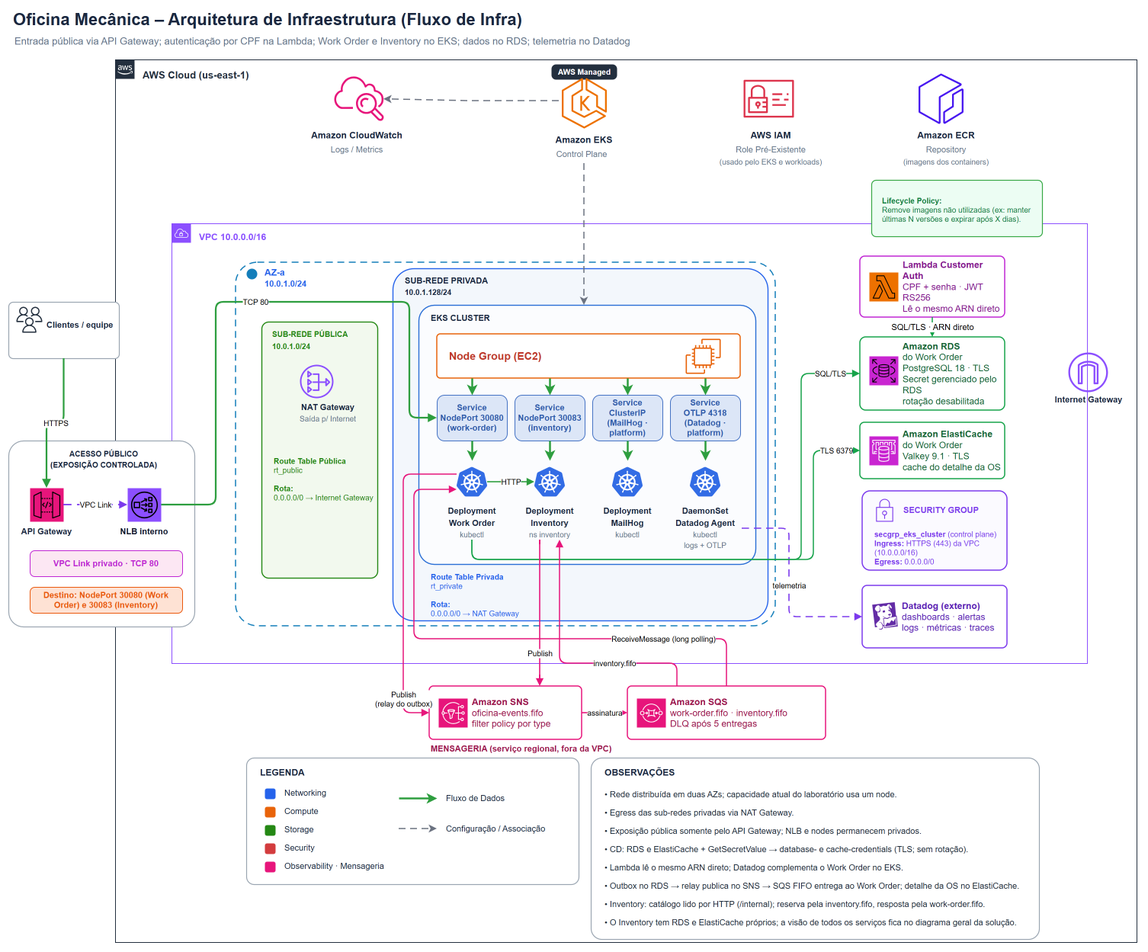
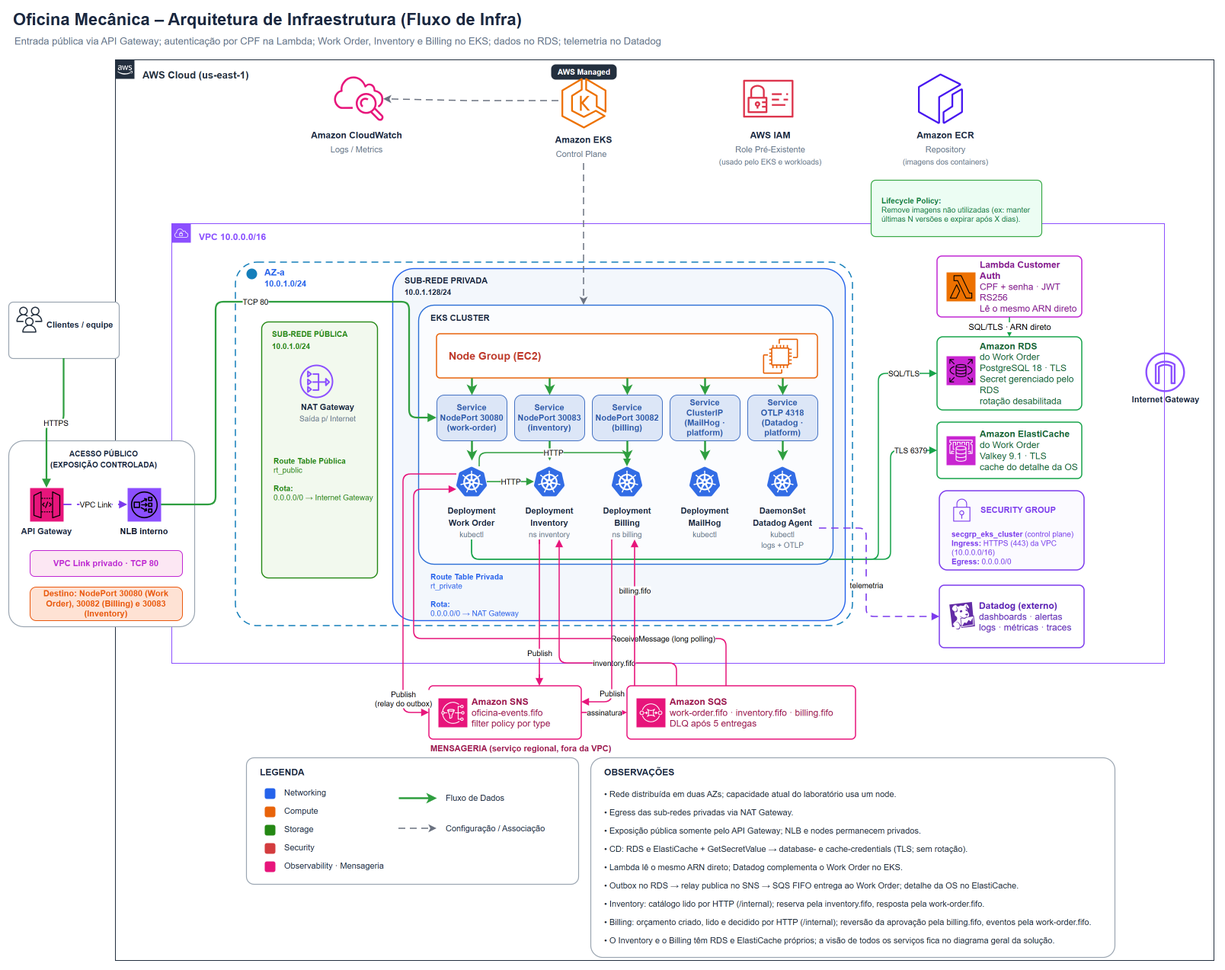
docs: redraw diagrams for billing quotes

diff --git a/docs/c4/README.md b/docs/c4/README.md
@@ -56,32 +56,33 @@ As caixas de pessoa descrevem **quem** cada ator é (não o que faz — a ação
 
 Um zoom para dentro da fronteira do sistema: os blocos executáveis/implantáveis e como se comunicam.
 
-<p align="center"><img src="images/c4-container.png" alt="Diagrama de Container C4: o API Gateway encaminha a autenticação externa à Lambda Customer Auth, as rotas de catálogo e estoque ao Inventory e o restante da API à API REST, no EKS; a API REST persiste no Amazon RDS, lê e invalida o detalhe da OS no ElastiCache, valida itens e lê o catálogo no Inventory, publica e consome mensagens no SNS e SQS FIFO, envia e-mails ao Servidor SMTP e emite telemetria ao Datadog Agent, que a encaminha ao Datadog; o Inventory consome os comandos de estoque e publica as respostas no SNS e SQS FIFO" width="100%"></p>
+<p align="center"><img src="images/c4-container.png" alt="Diagrama de Container C4: o API Gateway encaminha a autenticação externa à Lambda Customer Auth, as rotas de orçamento ao Billing, as de catálogo e estoque ao Inventory e o restante da API à API REST, no EKS; a API REST persiste no Amazon RDS, lê e invalida o detalhe da OS no ElastiCache, cria e lê orçamentos e repassa decisões no Billing, lê o catálogo no Inventory, publica e consome mensagens no SNS e SQS FIFO, envia e-mails ao Servidor SMTP e emite telemetria ao Datadog Agent, que a encaminha ao Datadog; o Billing e o Inventory publicam e consomem as mensagens deles no SNS e SQS FIFO" width="100%"></p>
 
-Dentro do **Sistema da Oficina Mecânica** estão os sete blocos implantáveis ou gerenciados que participam do fluxo atual: **API Gateway**, **API REST**, **Customer Auth**, **Banco de Dados**, **Cache**, **Mensageria** e **Coleta de Telemetria**. O **Inventory**, o **Servidor SMTP** e o **Datadog** são sistemas externos. O Inventory é outro serviço da solução, com banco e cache próprios, dono do catálogo de serviços e peças e do estoque; a API REST depende dele para validar itens e ler os dados de exibição deles, e para reservar o estoque na aprovação de orçamento. É neste nível que aparecem **tecnologia e protocolo** nas setas, como recomendado. O relay do outbox e o consumidor da fila rodam dentro do processo da API, sem worker separado; o Job de migração do Kubernetes reutiliza a mesma imagem da API e por isso não é modelado como container à parte.
+Dentro do **Sistema da Oficina Mecânica** estão os sete blocos implantáveis ou gerenciados que participam do fluxo atual: **API Gateway**, **API REST**, **Customer Auth**, **Banco de Dados**, **Cache**, **Mensageria** e **Coleta de Telemetria**. O **Billing**, o **Inventory**, o **Servidor SMTP** e o **Datadog** são sistemas externos. O Billing e o Inventory são outros serviços da solução, cada um com banco e cache próprios. O Billing é dono dos orçamentos e dos pagamentos: a API REST cria nele o orçamento inicial ao abrir uma OS, lê os orçamentos, repassa a decisão do Cliente da Oficina e reage às mensagens que ele publica quando um orçamento muda de status. O Inventory é dono do catálogo de serviços e peças e do estoque: a API REST lê nele os dados de exibição dos itens e reserva o estoque na aprovação de orçamento. É neste nível que aparecem **tecnologia e protocolo** nas setas, como recomendado. O relay do outbox e o consumidor da fila rodam dentro do processo da API, sem worker separado; o Job de migração do Kubernetes reutiliza a mesma imagem da API e por isso não é modelado como container à parte.
 
 | Container | Tecnologia | Responsabilidade |
 |---|---|---|
-| **API Gateway** | AWS HTTP API | Entrada pública; encaminha `/customer-auth/login` à Lambda, `/api/services` (exceto as métricas, `/api/services/{id}/metrics`, que ficam na API REST), `/api/parts-supplies`, `/api/stock-movements` e `/api/stock-reservations` ao Inventory e o restante de `/api/{proxy+}` à API REST, pelo VPC Link e pelo NLB interno |
+| **API Gateway** | AWS HTTP API | Entrada pública; encaminha `/customer-auth/login` à Lambda, `/api/services` (exceto as métricas, `/api/services/{id}/metrics`, que ficam na API REST), `/api/parts-supplies`, `/api/stock-movements` e `/api/stock-reservations` ao Inventory, `/api/quotes` e `/api/work-orders/{id}/quotes` ao Billing e o restante de `/api/{proxy+}` à API REST, pelo VPC Link e pelo NLB interno |
 | **API REST** | NestJS 12 · Node.js 24 · TypeScript no EKS | Expõe `/api`, concentra a lógica de negócio em Clean Architecture e envia notificações |
 | **Customer Auth** | AWS Lambda · Node.js 24 | Valida CPF, senha e status e emite `customer-jwt` RS256 |
-| **Banco de Dados** | PostgreSQL 18 (Amazon RDS) | Armazena as entidades de negócio da API (clientes, veículos, ordens de serviço, orçamentos, usuários), o estado das Sagas e o outbox das mensagens; serviço **gerenciado, fora do cluster**, alcançado pela rede a partir das subnets privadas |
+| **Banco de Dados** | PostgreSQL 18 (Amazon RDS) | Armazena as entidades de negócio da API (clientes, veículos, ordens de serviço, usuários), o estado das Sagas e o outbox das mensagens; serviço **gerenciado, fora do cluster**, alcançado pela rede a partir das subnets privadas |
 | **Cache** | Valkey 9.1 (Amazon ElastiCache) | Guarda o detalhe das ordens de serviço (cache-aside, TTL de 12 h); serviço gerenciado, fora do cluster, com TLS e senha |
-| **Mensageria** | Amazon SNS + SQS FIFO | Tópico `oficina-events.fifo` e filas `work-order.fifo` e `inventory.fifo`, cada uma com a sua DLQ (fila de mensagens que falharam), para as mensagens entre os serviços da oficina |
+| **Mensageria** | Amazon SNS + SQS FIFO | Tópico `oficina-events.fifo` e filas `work-order.fifo`, `inventory.fifo` e `billing.fifo`, cada uma com a sua DLQ (fila de mensagens que falharam), para as mensagens entre os serviços da oficina |
 | **Coleta de Telemetria** | Datadog Agent no EKS | Coleta `stdout`, kubelet e OTLP da API e envia a telemetria ao Datadog |
+| **Billing** | Serviço externo · NestJS 12 no EKS | Dono dos orçamentos e dos pagamentos; atende a API REST pelas rotas `/internal/quotes`, recebe pela fila `billing.fifo` o pedido de desfazer uma aprovação e publica os eventos de orçamento que a API REST consome |
 | **Inventory** | Serviço externo · NestJS 12 no EKS | Dono do catálogo de serviços e peças e do estoque, com a reserva por OS; atende a API REST pelas rotas `/internal` e os comandos de estoque pela fila `inventory.fifo` |
 | **Servidor SMTP** | MailHog (externo) | Recebe e entrega os e-mails de orçamento (sink SMTP de desenvolvimento) |
 | **Datadog** | Serviço externo | Apresenta dashboards, alertas, logs, métricas e traces |
 
-Os protocolos nas setas: os atores entram por **HTTPS** no API Gateway; a autenticação de cliente usa integração **AWS_PROXY** com a Lambda; a API segue por **VPC Link → NLB interno → NodePort**; API e Lambda acessam o RDS por **SQL/TLS**; a API acessa o ElastiCache por **RESP sobre TLS**, o Inventory por **HTTP/JSON** nas rotas `/internal` e o SNS e o SQS por **HTTPS** (AWS SDK), como o Inventory; a API notifica por **SMTP** e emite telemetria por `stdout` e **OTLP**. A estratégia Passport externa (`customer-jwt`, RS256) permanece separada da usada pelos funcionários (`jwt`, RS256 com outra chave, emissor e audiência).
+Os protocolos nas setas: os atores entram por **HTTPS** no API Gateway; a autenticação de cliente usa integração **AWS_PROXY** com a Lambda; a API segue por **VPC Link → NLB interno → NodePort**; API e Lambda acessam o RDS por **SQL/TLS**; a API acessa o ElastiCache por **RESP sobre TLS**, o Billing e o Inventory por **HTTP/JSON** nas rotas `/internal` e o SNS e o SQS por **HTTPS** (AWS SDK), como o Billing e o Inventory; a API notifica por **SMTP** e emite telemetria por `stdout` e **OTLP**. A estratégia Passport externa (`customer-jwt`, RS256) permanece separada da usada pelos funcionários (`jwt`, RS256 com outra chave, emissor e audiência).
 
 ## Nível 3 — Componente da API REST
 
 O zoom mais interno: as peças que compõem o container **API REST**.
 
-<p align="center"><img src="images/c4-component.png" alt="Diagrama de Componente C4 da API REST: nove módulos de negócio (Minha Conta, Auth, Usuários, Clientes, Veículos, Serviços, Ordens de Serviço, Orçamentos e Rotas Internas) e cinco componentes transversais (Guards/Segurança, Repositories, Cache, Mensageria e Gateways); Ordens de Serviço e Orçamentos se relacionam nos dois sentidos, invalidam o Cache e validam itens e leem os dados de exibição pelos Gateways, que chamam as rotas /internal do Inventory; Serviços lê o catálogo pelos Gateways; a Mensageria entrega aos Orçamentos as respostas da reserva de estoque; os Orçamentos enviam e-mail pelo Servidor SMTP; o Cliente da Oficina passa por Guards/Segurança até Minha Conta; o Billing lê a OS e o Inventory consulta o uso de item em orçamento pelas Rotas Internas; Repositories, Cache e Mensageria usam o PostgreSQL, o ElastiCache e o SNS/SQS FIFO" width="100%"></p>
+<p align="center"><img src="images/c4-component.png" alt="Diagrama de Componente C4 da API REST: nove módulos de negócio (Minha Conta, Auth, Usuários, Clientes, Veículos, Serviços, Ordens de Serviço, Orçamentos e Rotas Internas) e cinco componentes transversais (Guards/Segurança, Repositories, Cache, Mensageria e Gateways); Ordens de Serviço cria e apaga o orçamento inicial pelos Gateways; a Mensageria entrega aos Orçamentos as mensagens do Billing e as respostas da reserva de estoque, e os Orçamentos movem a OS, leem o orçamento aprovado pelos Gateways, invalidam o Cache e enviam e-mail pelo Servidor SMTP; Minha Conta lê e decide orçamentos pelos Gateways; os Gateways chamam as rotas /internal do Billing e do Inventory; Serviços lê o catálogo pelos Gateways; o Cliente da Oficina passa por Guards/Segurança até Minha Conta; o Billing lê a OS pelas Rotas Internas; Repositories, Cache e Mensageria usam o PostgreSQL, o ElastiCache e o SNS/SQS FIFO" width="100%"></p>
 
-São **nove módulos de negócio** e **cinco componentes transversais**, com as dependências reais entre módulos levantadas no código. Destaques do fluxo: **Ordens de Serviço ↔ Orçamentos** se relacionam nos dois sentidos (a OS cria e lista orçamentos; o orçamento lê e atualiza o status da OS); os dois validam os itens e leem os dados de exibição deles no **Inventory**, o serviço dono do catálogo e do estoque, pelos **Gateways**; a aprovação de um orçamento com peças é a Saga de aprovação, em que o comando de reserva sai pelo outbox e a **Mensageria** entrega aos **Orçamentos** as respostas do Inventory (ver [Arquitetura](../architecture.md#aprovação-de-orçamento-com-reserva-de-estoque)); os **Orçamentos** disparam e-mail pelo **Servidor SMTP**; o **Cliente da Oficina** apresenta o `customer-jwt` ao componente **Guards / Segurança**, que o vincula ao módulo **Minha Conta**; o **Billing** lê a OS e o **Inventory** consulta o uso de item em orçamento pelas **Rotas Internas**; e **Ordens de Serviço** e **Orçamentos** leem e invalidam o detalhe da OS no **Cache**.
+São **nove módulos de negócio** e **cinco componentes transversais**, com as dependências reais entre módulos levantadas no código. Destaques do fluxo: **Ordens de Serviço** abre a OS com o orçamento inicial criado no **Billing**, o serviço dono dos orçamentos, pelos **Gateways**, e o apaga se a gravação da OS falha (a Saga de abertura, ver [Arquitetura](../architecture.md#saga-de-abertura)); **Orçamentos** não tem rota HTTP: a **Mensageria** entrega a ele as mensagens do Billing (orçamento enviado, rejeitado, aprovado e aprovação desfeita) e as respostas da reserva de estoque do **Inventory**, e ele move a OS, conduz a Saga de aprovação (ver [Arquitetura](../architecture.md#aprovação-de-orçamento-com-reserva-de-estoque)), lê o orçamento aprovado pelos **Gateways** e dispara e-mail pelo **Servidor SMTP**; o **Cliente da Oficina** apresenta o `customer-jwt` ao componente **Guards / Segurança**, que o vincula ao módulo **Minha Conta**, que lê e decide os orçamentos no Billing pelos **Gateways**; o **Billing** lê a OS pelas **Rotas Internas**; e **Ordens de Serviço** e **Orçamentos** leem e invalidam o detalhe da OS no **Cache**.
 
 As dependências de quase todos os módulos em relação a **Guards / Segurança** e **Repositories**, e as de **Clientes** e **Veículos** em relação ao **Cache**, estão descritas no texto desses componentes, e **não desenhadas como setas** — isso evita cerca de 18 setas repetidas que poluiriam o diagrama sem agregar informação. Como no exemplo oficial (Figura 3 do material da aula), as setas entre componentes do mesmo container não levam rótulo de tecnologia; a tecnologia aparece somente nas relações que cruzam a fronteira da API, como cliente, Banco de Dados, Cache Distribuído, Mensageria AWS, Servidor SMTP, Billing e Inventory.
 
@@ -94,10 +95,10 @@ As dependências de quase todos os módulos em relação a **Guards / Segurança
 | **Clientes** | NestJS Module | CRUD de clientes (pessoa física/jurídica) |
 | **Veículos** | NestJS Module | CRUD de veículos e listagem de veículos por cliente |
 | **Serviços** | NestJS Module | Métricas por serviço sobre os itens executados (`GET /services/:id/metrics`); o catálogo de serviços é do Inventory |
-| **Ordens de Serviço** | NestJS Module | Criação e gestão de ordens de serviço, status, histórico e execução dos itens; ao iniciar a execução de uma OS com peças, pede ao Inventory a baixa da reserva |
-| **Orçamentos** | NestJS Module | Itens de orçamento, submissão e notificação por e-mail (decisão via Minha Conta) e a Saga de aprovação com reserva de estoque no Inventory |
-| **Minha Conta** | NestJS Module | Rotas autenticadas do usuário externo: identidade, senha, ordens e orçamentos vinculados, decisão de orçamento |
-| **Rotas Internas** | NestJS Module | Rotas `/internal` para os outros serviços, sem token e fora do prefixo `/api`; delegam ao Clean Controller existente (`GET /internal/work-orders/:id`, lido pelo Billing, e o uso de serviço ou peça em orçamento, consultado pelo Inventory) |
+| **Ordens de Serviço** | NestJS Module | Abertura com o orçamento inicial no Billing (Saga de abertura), gestão de ordens de serviço, status, histórico e execução dos itens; ao iniciar a execução de uma OS com peças, pede ao Inventory a baixa da reserva |
+| **Orçamentos** | NestJS Module | Handlers das mensagens de orçamento, sem rota HTTP: o envio leva a OS a aguardar aprovação e avisa o cliente por e-mail, a rejeição devolve a OS, e a aprovação roda a Saga de aprovação com reserva de estoque no Inventory, desfeita no Billing quando falta estoque |
+| **Minha Conta** | NestJS Module | Rotas autenticadas do usuário externo: identidade, senha, ordens vinculadas e os orçamentos delas, lidos e decididos no Billing |
+| **Rotas Internas** | NestJS Module | Rotas `/internal` para os outros serviços, sem token e fora do prefixo `/api`; delegam ao Clean Controller existente (`GET /internal/work-orders/:id`, lido pelo Billing) |
 
 **Componentes transversais**
 
@@ -106,8 +107,8 @@ As dependências de quase todos os módulos em relação a **Guards / Segurança
 | **Guards / Segurança** | NestJS Guards | `AuthenticationGuard` global que nega por padrão (token de funcionário, salvo `@Public()` ou `@CustomerArea()`), `RolesGuard` (RBAC interno) e as estratégias separadas `jwt` (RS256, funcionário) e `customer-jwt` (RS256) |
 | **Repositories** | Prisma | Acesso a dados centralizado e global; todos os módulos de negócio persistem através dele, com o outbox gravado no mesmo Unit of Work |
 | **Cache** | NestJS Module · ioredis | Cache-aside do detalhe da OS no Valkey; invalidado depois do commit pelas escritas em OS, orçamentos, clientes e veículos |
-| **Mensageria** | NestJS Module · AWS SDK | Relay do outbox para o SNS FIFO e consumidor da fila SQS `work-order.fifo`, com o span `CONSUMER` e os handlers das respostas da reserva de estoque (`inventory.stock.reserved` e `inventory.stock.reservation_failed`) |
-| **Gateways** | @nestjs/axios | `HttpInventoryCatalogGateway` sobre o `InternalHttpClient`: lê serviços e peças nas rotas `/internal` do Inventory, com prazo de 2 s, `x-request-id` e `traceparent` |
+| **Mensageria** | NestJS Module · AWS SDK | Relay do outbox para o SNS FIFO e consumidor da fila SQS `work-order.fifo`, com o span `CONSUMER` e os handlers das mensagens do Billing (`billing.quote.sent`, `billing.quote.rejected`, `billing.quote.approved` e `billing.quote.approval_reverted`) e das respostas da reserva de estoque (`inventory.stock.reserved` e `inventory.stock.reservation_failed`) |
+| **Gateways** | @nestjs/axios | `HttpBillingQuotesGateway` e `HttpInventoryCatalogGateway` sobre o `InternalHttpClient`: criam, leem, apagam e decidem orçamentos nas rotas `/internal` do Billing e leem serviços e peças nas do Inventory, com prazo de 2 s (5 s nas chamadas que o Billing só responde depois de ler o Inventory), `x-request-id` e `traceparent` |
 
 ## Documentação relacionada
 

diff --git a/docs/sequence-diagrams.md b/docs/sequence-diagrams.md
@@ -2,7 +2,7 @@
 
 Quatro fluxos centrais da aplicação, em notação UML: login interno, abertura de Ordem de Serviço, autenticação externa do Cliente da Oficina por CPF e aprovação de orçamento com reserva de estoque. Gerados via draw.io a partir de Mermaid, com XML editável embutido nos PNGs.
 
-Nos três primeiros, existe uma camada de **Controller** duas vezes: o `Controller` do NestJS (em `infrastructure/http/controllers/`, borda HTTP — decorators de rota, DTOs, Swagger) delega para o `Controller` da Clean Architecture (em `interface-adapters/`, sem nenhuma dependência de framework), que por sua vez chama o caso de uso. Ver [ADR 0009](adr/0009-clean-architecture-ddd-em-camadas.md). No da aprovação de orçamento, as duas camadas aparecem num participante só, para dar espaço às mensagens trocadas com o Billing e o Inventory.
+Nos três primeiros, existe uma camada de **Controller** duas vezes: o `Controller` do NestJS (em `infrastructure/http/controllers/`, borda HTTP — decorators de rota, DTOs, Swagger) delega para o `Controller` da Clean Architecture (em `interface-adapters/`, sem nenhuma dependência de framework), que por sua vez chama o caso de uso. Ver [ADR 0009](adr/0009-clean-architecture-ddd-em-camadas.md). No da aprovação de orçamento, a área do cliente (**Minha Conta**) aparece num participante só, para dar espaço às mensagens trocadas com o Billing e o Inventory.
 
 ## Login interno
 
@@ -12,9 +12,9 @@ Nos três primeiros, existe uma camada de **Controller** duas vezes: o `Controll
 
 ## Abertura de Ordem de Serviço
 
-<p align="center"><img src="diagrams/work-order-creation-sequence.png" alt="Diagrama de sequência UML da abertura de uma Ordem de Serviço (POST /api/work-orders): WorkOrderController (NestJS), JwtAuthGuard, JwtStrategy, RolesGuard, WorkOrderController (Clean Architecture) a validação dos itens no Inventory pelo QuoteItemValidator e pelo IInventoryCatalogGateway, antes da transação (id desconhecido responde 404, Inventory fora do ar responde 503), e a transação do CreateWorkOrderUseCase — validação de cliente, veículo e mecânico atribuído, geração do número sequencial, criação da OS, histórico de status e orçamento inicial opcional" width="100%"></p>
+<p align="center"><img src="diagrams/work-order-creation-sequence.png" alt="Diagrama de sequência UML da abertura de uma Ordem de Serviço (POST /api/work-orders): WorkOrderController (NestJS), AuthenticationGuard com o JwtAuthGuard, JwtStrategy e RolesGuard autenticam o funcionário; o WorkOrderController (Clean Architecture) chama o CreateWorkOrderUseCase, que valida cliente, veículo e mecânico atribuído (404 ou 409); com itens no pedido, cria antes o orçamento inicial no Billing pelo IBillingQuotesGateway (POST /internal/quotes, prazo de 5 s; a recusa do Billing volta com o mesmo status, Billing ou Inventory fora do ar responde 503, sem nada gravado); depois grava numa transação o número sequencial, a OS e o histórico RECEIVED; se a transação falha, apaga o orçamento no Billing (DELETE /internal/quotes/:id, compensação da Saga de abertura) e devolve o erro; no sucesso responde 201" width="100%"></p>
 
-`POST /api/work-orders`, a partir do `accessToken` obtido no login — passa por `JwtAuthGuard`/`JwtStrategy` (incluindo a checagem de `passwordChangedAt`) e `RolesGuard` e chega ao `CreateWorkOrderUseCase`, que conduz a **Saga de abertura**: valida cliente, veículo e mecânico (404/409/422), cria o orçamento inicial no Billing, o serviço dono dos orçamentos, quando há itens (`POST /internal/quotes`, antes da transação: a recusa do Billing volta como está, Billing ou Inventory fora do ar → 503), e grava a OS e o histórico numa transação. Se a transação falha, o orçamento é apagado no Billing (`DELETE /internal/quotes/:id`) e o erro volta ao chamador. Regras completas em [Saga de abertura](architecture.md#saga-de-abertura).
+`POST /api/work-orders`, a partir do `accessToken` obtido no login — passa pelo `AuthenticationGuard`, o guard global que delega ao `JwtAuthGuard`/`JwtStrategy` (incluindo a checagem de `passwordChangedAt`), e pelo `RolesGuard` e chega ao `CreateWorkOrderUseCase`, que conduz a **Saga de abertura**: valida cliente, veículo e mecânico (404/409/422), cria o orçamento inicial no Billing, o serviço dono dos orçamentos, quando há itens (`POST /internal/quotes`, antes da transação: a recusa do Billing volta como está, Billing ou Inventory fora do ar → 503), e grava a OS e o histórico numa transação. Se a transação falha, o orçamento é apagado no Billing (`DELETE /internal/quotes/:id`) e o erro volta ao chamador. Regras completas em [Saga de abertura](architecture.md#saga-de-abertura).
 
 ## Autenticação externa do Cliente da Oficina (CPF)
 
@@ -26,7 +26,7 @@ Ver [Identidade externa, autenticação e autorização por vínculo](architectu
 
 ## Aprovação de orçamento com reserva de estoque
 
-<p align="center"><img src="diagrams/quote-approval-saga-sequence.png" alt="Diagrama de sequência UML da aprovação de orçamento com reserva de estoque: o usuário aprova o orçamento; o ApproveQuoteUseCase grava numa transação a OS, o orçamento aprovado, os outros orçamentos rejeitados e a Saga, e, quando o orçamento tem peças, o comando inventory.stock.reserve no outbox; o OutboxRelayService publica o comando no SNS, que o entrega ao Inventory pela fila inventory.fifo; a resposta inventory.stock.reserved chega pela fila work-order.fifo ao CompleteQuoteApprovalUseCase, que leva a OS a APPROVED e conclui a Saga; a resposta inventory.stock.reservation_failed chega ao CompensateQuoteApprovalUseCase, que desfaz a aprovação, compensa a Saga e envia um e-mail ao cliente" width="100%"></p>
+<p align="center"><img src="diagrams/quote-approval-saga-sequence.png" alt="Diagrama de sequência UML da aprovação de orçamento com reserva de estoque: o funcionário aprova no Billing ou o Cliente da Oficina decide pela Minha Conta, que repassa a decisão ao Billing; o Billing grava o orçamento aprovado, responde 200 e publica billing.quote.approved, que chega pela fila work-order.fifo ao StartQuoteApprovalUseCase; ele ignora a mensagem repetida, pede a reversão ao Billing (billing.quote.revert_approval com revertTo REJECTED) se a OS saiu de AWAITING_APPROVAL, aprova a OS direto quando não há peças ou grava a Saga RESERVING_STOCK e o comando inventory.stock.reserve no outbox; o OutboxRelayService publica o comando, que o Inventory recebe pela fila inventory.fifo; com estoque, inventory.stock.reserved chega ao CompleteQuoteApprovalUseCase, que lê o orçamento aprovado no Billing, leva a OS a APPROVED e conclui a Saga; sem estoque, inventory.stock.reservation_failed chega ao CompensateQuoteApprovalUseCase, que deixa a Saga COMPENSATING e pede ao Billing, pela fila billing.fifo, a volta do orçamento a SENT; o Billing publica billing.quote.approval_reverted e o ConfirmQuoteApprovalReversalUseCase deixa a Saga COMPENSATED, grava a nota no histórico e envia o e-mail de estoque insuficiente ao cliente" width="100%"></p>
 
 O funcionário aprova o orçamento no Billing (`PATCH /api/quotes/:id`) ou o Cliente da Oficina decide em `POST /api/me/quotes/:id/decisions`, que este serviço confere e repassa ao Billing. A aprovação é uma **Saga**: uma sequência de transações locais, cada uma num serviço, ligada por mensagens, em que a falha de um passo dispara uma **compensação** que desfaz o que os passos anteriores gravaram. O work-order conduz a Saga e guarda o estado dela na tabela `saga_instances`.
 

diff --git a/docs/infra/overview.md b/docs/infra/overview.md
@@ -20,9 +20,9 @@ A solução roda inteiramente na região **`us-east-1`**, dentro de uma única V
 
 A primeira vista preserva o fluxo arquitetural resumido; a segunda detalha rede, ownership e workloads sem alterar a separação entre os recursos gerenciados e o cluster.
 
-![Arquitetura de infraestrutura: API Gateway e Lambda na entrada pública, Work Order, Inventory (o serviço dono do catálogo e do estoque, chamado pelo Work Order por HTTP) e Datadog Agent no EKS, o Amazon RDS e o Amazon ElastiCache do Work Order fora do cluster, Amazon SNS e as filas SQS FIFO work-order.fifo e inventory.fifo para a mensageria dos dois serviços e Datadog como destino da telemetria](../diagrams/infrastructure-diagram.png)
+![Arquitetura de infraestrutura: API Gateway e Lambda na entrada pública, Work Order, Inventory (o serviço dono do catálogo e do estoque) e Billing (o serviço dono dos orçamentos e dos pagamentos), os dois chamados pelo Work Order por HTTP, e o Datadog Agent no EKS, o Amazon RDS e o Amazon ElastiCache do Work Order fora do cluster, Amazon SNS e as filas SQS FIFO work-order.fifo, inventory.fifo e billing.fifo para a mensageria dos três serviços e Datadog como destino da telemetria](../diagrams/infrastructure-diagram.png)
 
-![Arquitetura de referência detalhada: fluxo API Gateway, VPC Link, NLB interno e NodePort; subnets públicas e privadas; cluster EKS com o Work Order e o Inventory, Lambda, RDS, ElastiCache, SNS e as filas SQS FIFO work-order.fifo e inventory.fifo e serviços de suporte](../diagrams/infrastructure-details.png)
+![Arquitetura de referência detalhada: fluxo API Gateway, VPC Link, NLB interno e NodePort; subnets públicas e privadas; cluster EKS com o Work Order, o Inventory e o Billing, Lambda, RDS, ElastiCache, SNS e as filas SQS FIFO work-order.fifo, inventory.fifo e billing.fifo e serviços de suporte](../diagrams/infrastructure-details.png)
 
 ## As sete camadas de provisionamento
 
